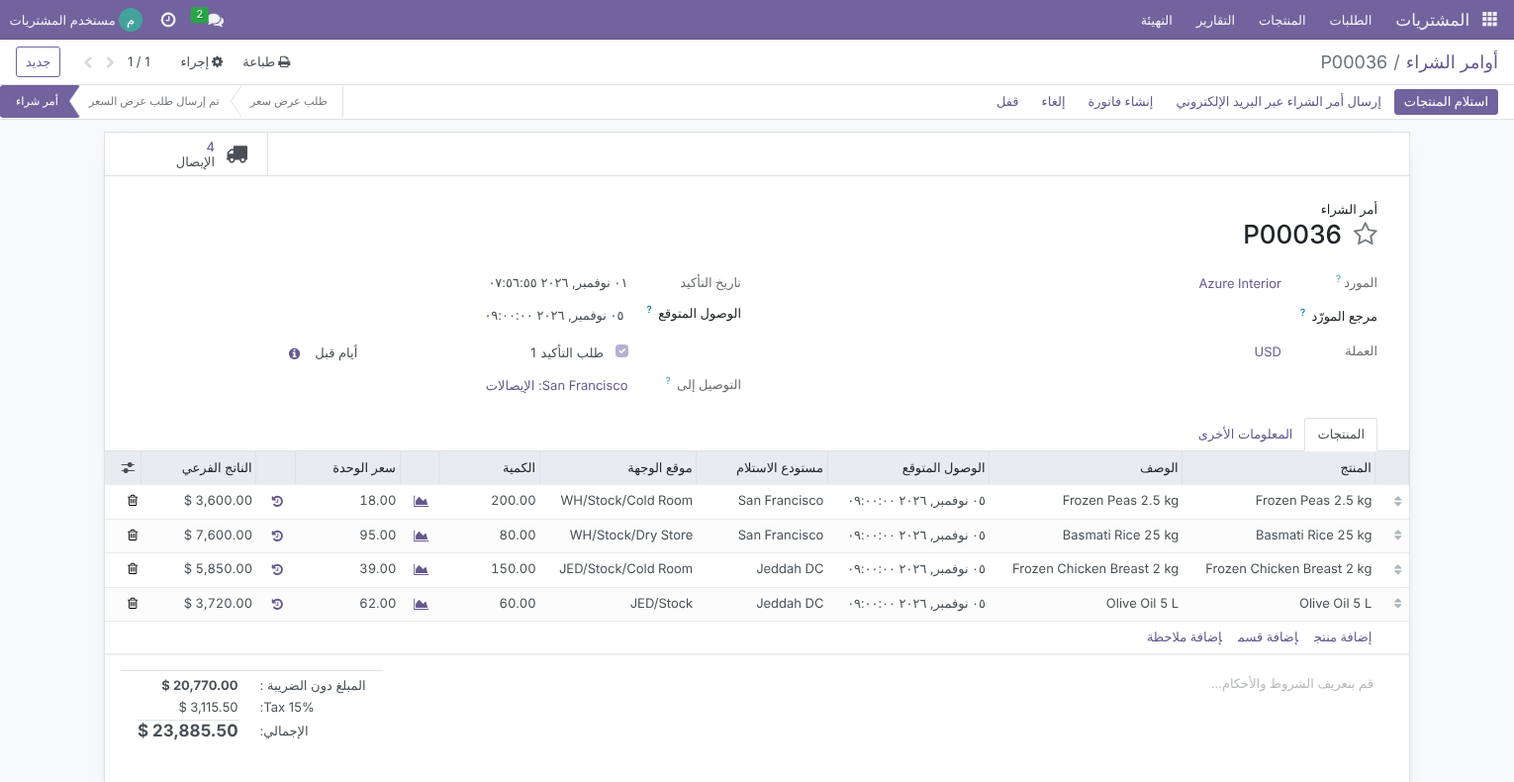
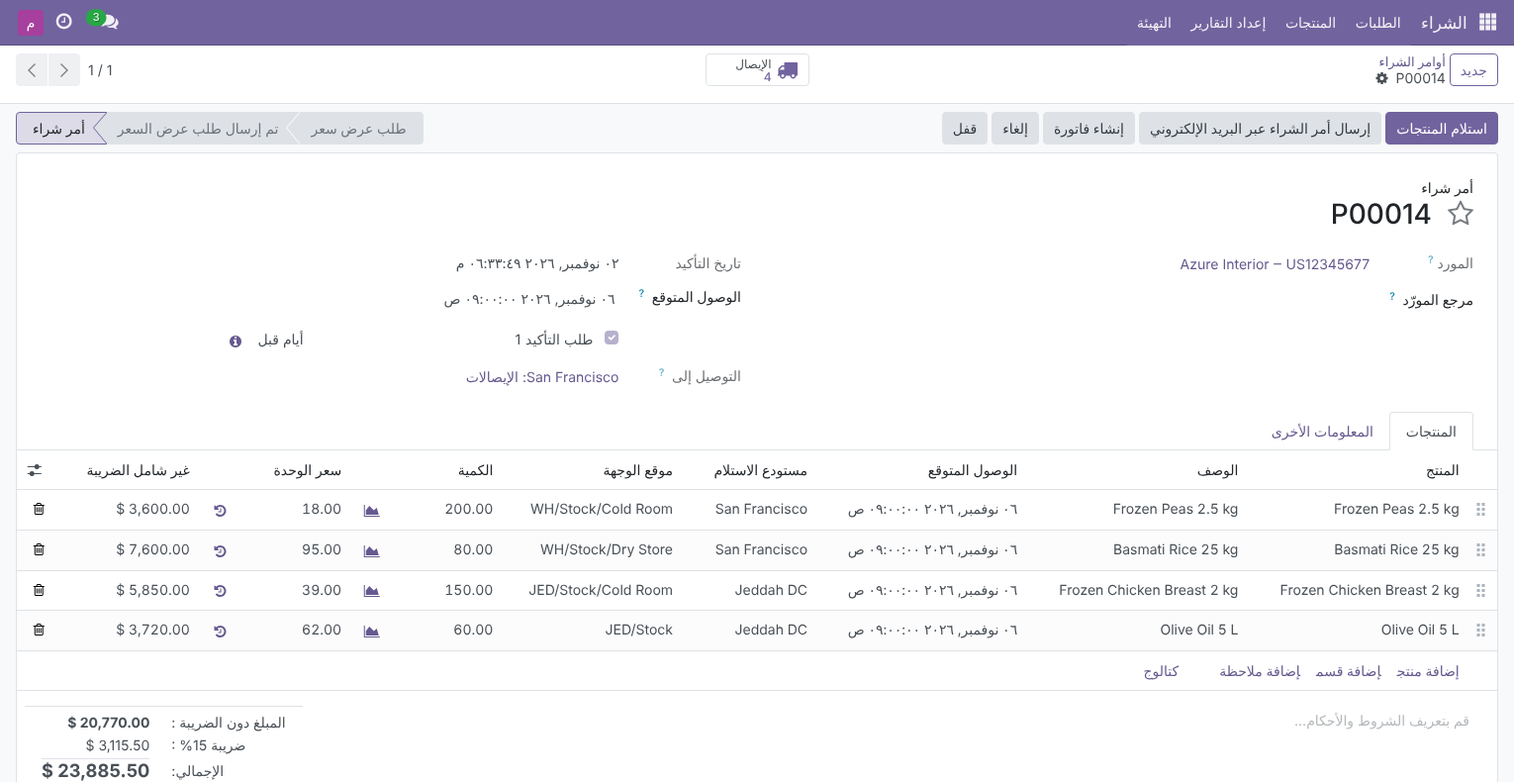
Add files via upload

diff --git a/purchase_split_grn/static/description/index.html b/purchase_split_grn/static/description/index.html
@@ -1,4 +1,4 @@
-<!-- Odoo Apps description page for purchase_split_grn (Odoo 16.0). Inline styles only: apps.odoo.com strips <style> and <script> blocks. -->
+<!-- Odoo Apps description page for purchase_split_grn (Odoo 17.0). Inline styles only: apps.odoo.com strips <style> and <script> blocks. -->
 <section style="max-width:1120px;margin:0 auto;padding:0 16px;font-family:-apple-system,BlinkMacSystemFont,'Segoe UI',Roboto,'Helvetica Neue',Arial,sans-serif;color:#2b2b33;">
 
 <!-- ============================== HERO ============================== -->
@@ -7,9 +7,9 @@
   <h1 style="font-size:40px;line-height:1.15;font-weight:700;margin:0 0 14px;color:#ffffff;">Split Receipts (GRN) by Date, Location &amp; Warehouse</h1>
   <p style="font-size:19px;line-height:1.55;max-width:760px;margin:0 0 24px;color:#ffffff;opacity:.95;">Confirm one purchase order and get one receipt per expected arrival day, per destination location and per warehouse of your company. When a line&rsquo;s date, location or warehouse changes later, its stock moves follow it and receipts left empty are removed.</p>
   <div>
-    <span style="display:inline-block;border:1px solid rgba(255,255,255,.7);border-radius:20px;padding:6px 14px;margin:0 8px 8px 0;font-size:14px;">Odoo 16.0</span>
+    <span style="display:inline-block;border:1px solid rgba(255,255,255,.7);border-radius:20px;padding:6px 14px;margin:0 8px 8px 0;font-size:14px;">Odoo 17.0</span>
     <span style="display:inline-block;border:1px solid rgba(255,255,255,.7);border-radius:20px;padding:6px 14px;margin:0 8px 8px 0;font-size:14px;">Community &amp; Enterprise</span>
-    <span style="display:inline-block;border:1px solid rgba(255,255,255,.7);border-radius:20px;padding:6px 14px;margin:0 8px 8px 0;font-size:14px;">38 automated tests</span>
+    <span style="display:inline-block;border:1px solid rgba(255,255,255,.7);border-radius:20px;padding:6px 14px;margin:0 8px 8px 0;font-size:14px;">40 automated tests</span>
     <span style="display:inline-block;border:1px solid rgba(255,255,255,.7);border-radius:20px;padding:6px 14px;margin:0 8px 8px 0;font-size:14px;">Arabic &middot; RTL</span>
     <span style="display:inline-block;border:1px solid rgba(255,255,255,.7);border-radius:20px;padding:6px 14px;margin:0 8px 8px 0;font-size:14px;">Technical name: purchase_split_grn</span>
     <span style="display:inline-block;border:1px solid rgba(255,255,255,.7);border-radius:20px;padding:6px 14px;margin:0 8px 8px 0;font-size:14px;">LGPL-3</span>
@@ -21,7 +21,7 @@
   <div style="flex:1 1 220px;margin:8px;background:#f6f4f6;border-radius:14px;padding:20px 22px;"><div style="font-size:30px;font-weight:700;color:#714B67;">3 criteria</div><div style="font-size:15px;color:#555;">Delivery date, destination location and warehouse, alone or combined</div></div>
   <div style="flex:1 1 220px;margin:8px;background:#eef6f6;border-radius:14px;padding:20px 22px;"><div style="font-size:30px;font-weight:700;color:#017E84;">1 receipt</div><div style="font-size:15px;color:#555;">per arrival day &times; location &times; warehouse, created at confirmation</div></div>
   <div style="flex:1 1 220px;margin:8px;background:#f6f4f6;border-radius:14px;padding:20px 22px;"><div style="font-size:30px;font-weight:700;color:#714B67;">0 empty receipts</div><div style="font-size:15px;color:#555;">Moves are re-routed on change and emptied receipts deleted</div></div>
-  <div style="flex:1 1 220px;margin:8px;background:#eef6f6;border-radius:14px;padding:20px 22px;"><div style="font-size:30px;font-weight:700;color:#017E84;">112 tests</div><div style="font-size:15px;color:#555;">38 of its own plus the 74 core <code>purchase_stock</code> tests, green with splitting on</div></div>
+  <div style="flex:1 1 220px;margin:8px;background:#eef6f6;border-radius:14px;padding:20px 22px;"><div style="font-size:30px;font-weight:700;color:#017E84;">227 tests</div><div style="font-size:15px;color:#555;">40 of its own plus the 187 core <code>purchase_stock</code> tests, green with splitting on</div></div>
 </div>
 
 <!-- ============================== WHY ============================== -->
@@ -29,7 +29,7 @@
 <p style="font-size:16px;color:#555;margin:0 0 18px;">Vendors rarely deliver a whole order at once, and different goods go to different parts of the warehouse &ndash; or to different warehouses. Standard Odoo still puts every line into one receipt.</p>
 <div style="display:flex;flex-wrap:wrap;margin:0 -10px;">
   <div style="flex:1 1 440px;margin:10px;border:1px solid #f1d6d6;background:#fff8f8;border-radius:14px;padding:24px 26px;">
-    <h3 style="font-size:19px;font-weight:700;color:#b33939;margin:0 0 12px;">In standard Odoo 16</h3>
+    <h3 style="font-size:19px;font-weight:700;color:#b33939;margin:0 0 12px;">In standard Odoo 17</h3>
     <ul style="font-size:15px;line-height:1.65;margin:0;padding-left:20px;color:#3a3a42;">
       <li>A confirmed PO creates <b>one receipt</b>, whatever the expected arrival dates of its lines.</li>
       <li>The receipt&rsquo;s <b>scheduled date</b> is the earliest line date, so later deliveries look late or early.</li>
@@ -66,7 +66,7 @@
 
 <!-- ============================== FEATURES ============================== -->
 <h2 style="font-size:28px;font-weight:700;margin:40px 0 6px;color:#2b2b33;">Features</h2>
-<p style="font-size:16px;color:#555;margin:0 0 4px;">Screenshots use Odoo 16 demo data from <b>Azure Interior</b>: P00034 with six lines due on three different days into <b>Cold Room</b>, <b>Bulk Racks</b> and <b>Dry Store</b> of the <b>San Francisco</b> warehouse, and P00036 split between San Francisco and a second warehouse, <b>Jeddah DC</b>.</p>
+<p style="font-size:16px;color:#555;margin:0 0 4px;">Screenshots use Odoo 17 demo data from <b>Azure Interior</b>: P00012 with six lines due on three different days into <b>Cold Room</b>, <b>Bulk Racks</b> and <b>Dry Store</b> of the <b>San Francisco</b> warehouse, and P00014 split between San Francisco and a second warehouse, <b>Jeddah DC</b>.</p>
 
 <div style="margin:44px 0 0;">
   <div style="font-size:13px;font-weight:700;color:#017E84;letter-spacing:1px;text-transform:uppercase;">Settings</div>
@@ -85,9 +85,9 @@
 <div style="margin:44px 0 0;">
   <div style="font-size:13px;font-weight:700;color:#017E84;letter-spacing:1px;text-transform:uppercase;">Feature 2</div>
   <h3 style="font-size:23px;font-weight:700;margin:4px 0 8px;">One receipt per arrival day and destination</h3>
-  <p style="font-size:15px;line-height:1.6;color:#555;margin:0 0 14px;">Lines sharing both the same day and the same destination share a receipt. Frozen Peas and Chilled Yoghurt (Cold Room, 3 Nov) are received together; Steel Pallet Rack Beam (Bulk Racks, same day) gets its own receipt; Frozen Chicken (Cold Room, 10 Nov) another. The optional <b>Grouped Arrival Date</b> column shows each receipt&rsquo;s key.</p>
+  <p style="font-size:15px;line-height:1.6;color:#555;margin:0 0 14px;">Lines sharing both the same day and the same destination share a receipt. Frozen Peas and Chilled Yoghurt (Cold Room, 4 Nov) are received together; Steel Pallet Rack Beam (Bulk Racks, same day) gets its own receipt; Frozen Chicken (Cold Room, 11 Nov) another. The optional <b>Grouped Arrival Date</b> column shows each receipt&rsquo;s key.</p>
   <img src="psg_03_receipts_list.png" alt="Four receipts of one purchase order, each with its own destination and grouped arrival date" style="width:100%;margin-bottom:22px;border:1px solid #e1e1e6;border-radius:10px;box-shadow:0 6px 24px rgba(30,30,60,.10);"/>
-  <img src="psg_04_receipt_form.png" alt="Receipt WH/IN/00051 into Cold Room with Grouped Arrival Date and two products" style="width:100%;border:1px solid #e1e1e6;border-radius:10px;box-shadow:0 6px 24px rgba(30,30,60,.10);"/>
+  <img src="psg_04_receipt_form.png" alt="Receipt WH/IN/00008 into Cold Room with Grouped Arrival Date and two products" style="width:100%;border:1px solid #e1e1e6;border-radius:10px;box-shadow:0 6px 24px rgba(30,30,60,.10);"/>
   <div style="font-size:13px;color:#777;margin:6px 0 0;">The receipt&rsquo;s destination, scheduled date and deadline all match its lines; it is <b>Ready</b> to validate.</div>
   <div style="background:#f4fbfb;border-left:4px solid #017E84;border-radius:8px;padding:16px 20px;font-size:15px;line-height:1.6;margin-top:14px;"><b>Grouping rule:</b> lines are grouped by <b>calendar day</b> in the buyer&rsquo;s timezone (the PO&rsquo;s purchase representative, otherwise the current user). Example in Asia/Riyadh: 09:00 and 23:00 on 3 Nov are one receipt; 23:30 UTC on 3 Nov is already 4 Nov locally and goes with 4 Nov.</div>
 </div>
@@ -95,20 +95,20 @@
 <div style="margin:44px 0 0;">
   <div style="font-size:13px;font-weight:700;color:#017E84;letter-spacing:1px;text-transform:uppercase;">Feature 3</div>
   <h3 style="font-size:23px;font-weight:700;margin:4px 0 8px;">Receipts follow changes made after confirmation</h3>
-  <p style="font-size:15px;line-height:1.6;color:#555;margin:0 0 14px;">On P00035, Basmati Rice is due 4 Nov and Olive Oil 7 Nov: <b>2 receipts</b>. The vendor confirms both for 4 Nov; the buyer updates the Olive Oil date.</p>
-  <img src="psg_05_change_before.png" alt="Purchase order P00035 with two lines on different dates and 2 receipts" style="width:100%;margin-bottom:22px;border:1px solid #e1e1e6;border-radius:10px;box-shadow:0 6px 24px rgba(30,30,60,.10);"/>
+  <p style="font-size:15px;line-height:1.6;color:#555;margin:0 0 14px;">On P00013, Basmati Rice is due 5 Nov and Olive Oil 8 Nov: <b>2 receipts</b>. The vendor confirms both for 5 Nov; the buyer updates the Olive Oil date.</p>
+  <img src="psg_05_change_before.png" alt="Purchase order P00013 with two lines on different dates and 2 receipts" style="width:100%;margin-bottom:22px;border:1px solid #e1e1e6;border-radius:10px;box-shadow:0 6px 24px rgba(30,30,60,.10);"/>
   <img src="psg_06_change_after.png" alt="Same purchase order after the date change, now with 1 receipt" style="width:100%;border:1px solid #e1e1e6;border-radius:10px;box-shadow:0 6px 24px rgba(30,30,60,.10);"/>
-  <div style="font-size:13px;color:#777;margin:6px 0 22px;">The Olive Oil move moved into the 4 Nov receipt; its old receipt was left empty and deleted. The smart button now shows <b>1 Receipt</b>.</div>
-  <img src="psg_07_merged_receipt.png" alt="Receipt WH/IN/00054 holding both Basmati Rice and Olive Oil" style="width:100%;border:1px solid #e1e1e6;border-radius:10px;box-shadow:0 6px 24px rgba(30,30,60,.10);"/>
+  <div style="font-size:13px;color:#777;margin:6px 0 22px;">The Olive Oil move moved into the 5 Nov receipt; its old receipt was left empty and deleted. The smart button now shows <b>1 Receipt</b>.</div>
+  <img src="psg_07_merged_receipt.png" alt="Receipt WH/IN/00011 holding both Basmati Rice and Olive Oil" style="width:100%;border:1px solid #e1e1e6;border-radius:10px;box-shadow:0 6px 24px rgba(30,30,60,.10);"/>
   <div style="background:#f4fbfb;border-left:4px solid #017E84;border-radius:8px;padding:16px 20px;font-size:15px;line-height:1.6;margin-top:14px;"><b>What happens on a change:</b> the line&rsquo;s open, unprocessed moves go to the receipt matching its new day and destination. If none exists and the old receipt held only those moves, that receipt is <b>re-dated / re-located in place</b> and keeps its reference. Otherwise a new receipt is created. Any receipt left without moves is deleted. The same applies to new lines and quantity changes on confirmed orders.</div>
 </div>
 
 <div style="margin:44px 0 0;">
   <div style="font-size:13px;font-weight:700;color:#017E84;letter-spacing:1px;text-transform:uppercase;">Feature 4</div>
   <h3 style="font-size:23px;font-weight:700;margin:4px 0 8px;">Receive one order in several warehouses</h3>
-  <p style="font-size:15px;line-height:1.6;color:#555;margin:0 0 14px;">With <b>Split by Warehouse</b> on, PO lines get a <b>Receiving Warehouse</b> column. It defaults to the warehouse of the order&rsquo;s <b>Deliver To</b>. Choose another warehouse of the same company and the line&rsquo;s <b>Destination Location</b> switches to that warehouse&rsquo;s receipt location; the location list is limited to that warehouse (plus transit locations). P00036 is one order for San Francisco and Jeddah DC.</p>
-  <img src="psg_10_po_warehouses.png" alt="Purchase order P00036 with lines received in San Francisco and in Jeddah DC" style="width:100%;margin-bottom:22px;border:1px solid #e1e1e6;border-radius:10px;box-shadow:0 6px 24px rgba(30,30,60,.10);"/>
-  <img src="psg_11_receipts_warehouses.png" alt="Four receipts of P00036: two WH/IN receipts and two JED/IN receipts" style="width:100%;border:1px solid #e1e1e6;border-radius:10px;box-shadow:0 6px 24px rgba(30,30,60,.10);"/>
+  <p style="font-size:15px;line-height:1.6;color:#555;margin:0 0 14px;">With <b>Split by Warehouse</b> on, PO lines get a <b>Receiving Warehouse</b> column. It defaults to the warehouse of the order&rsquo;s <b>Deliver To</b>. Choose another warehouse of the same company and the line&rsquo;s <b>Destination Location</b> switches to that warehouse&rsquo;s receipt location; the location list is limited to that warehouse (plus transit locations). P00014 is one order for San Francisco and Jeddah DC.</p>
+  <img src="psg_10_po_warehouses.png" alt="Purchase order P00014 with lines received in San Francisco and in Jeddah DC" style="width:100%;margin-bottom:22px;border:1px solid #e1e1e6;border-radius:10px;box-shadow:0 6px 24px rgba(30,30,60,.10);"/>
+  <img src="psg_11_receipts_warehouses.png" alt="Four receipts of P00014: two WH/IN receipts and two JED/IN receipts" style="width:100%;border:1px solid #e1e1e6;border-radius:10px;box-shadow:0 6px 24px rgba(30,30,60,.10);"/>
   <div style="font-size:13px;color:#777;margin:6px 0 0;">Jeddah lines are received on <b>JED/IN</b> receipts, numbered by Jeddah&rsquo;s own sequence; San Francisco lines on <b>WH/IN</b>. Combined here with location splitting, so each warehouse also gets one receipt per destination.</div>
   <div style="background:#f4fbfb;border-left:4px solid #017E84;border-radius:8px;padding:16px 20px;font-size:15px;line-height:1.6;margin-top:14px;"><b>How it is done:</b> each receipt for another warehouse is created with <b>that warehouse&rsquo;s receipt operation type</b>, and its moves carry that warehouse and operation. So the receipt is numbered by that warehouse&rsquo;s sequence, appears on its Inventory overview, and follows its own reception steps and push rules (e.g. Input &rsaquo; Stock in two-step reception). Lines for the order&rsquo;s own warehouse keep the order&rsquo;s operation type. Only warehouses of the order&rsquo;s company can be chosen.</div>
 </div>
@@ -118,14 +118,14 @@
   <h3 style="font-size:23px;font-weight:700;margin:4px 0 8px;">Arabic translation and right-to-left layout</h3>
   <p style="font-size:15px;line-height:1.6;color:#555;margin:0 0 14px;">Every label, help text and error message ships in Arabic (<b>ar_001</b>). Views use Odoo&rsquo;s direction-aware layout, so the settings and order lines mirror correctly.</p>
   <img src="psg_08_settings_ar.png" alt="Inbound Logistics settings in Arabic, right-to-left" style="width:100%;max-width:1000px;margin-bottom:22px;border:1px solid #e1e1e6;border-radius:10px;box-shadow:0 6px 24px rgba(30,30,60,.10);"/>
-  <img src="psg_09_po_lines_ar.png" alt="Purchase order P00036 with Receiving Warehouse and Destination Location columns in Arabic, right-to-left" style="width:100%;border:1px solid #e1e1e6;border-radius:10px;box-shadow:0 6px 24px rgba(30,30,60,.10);"/>
+  <img src="psg_09_po_lines_ar.png" alt="Purchase order P00014 with Receiving Warehouse and Destination Location columns in Arabic, right-to-left" style="width:100%;border:1px solid #e1e1e6;border-radius:10px;box-shadow:0 6px 24px rgba(30,30,60,.10);"/>
 </div>
 
 <!-- ============================== CORNER CASES ============================== -->
 <h2 style="font-size:28px;font-weight:700;margin:44px 0 6px;color:#2b2b33;">Built for real-world corner cases</h2>
 <p style="font-size:16px;color:#555;margin:0 0 18px;">Behaviour you can rely on in daily use, most of it pinned down by the test suite.</p>
 <div style="display:flex;flex-wrap:wrap;margin:0 -8px;font-size:15px;line-height:1.55;">
-  <div style="flex:1 1 320px;margin:8px;padding:16px 18px;border:1px solid #e8e8ee;border-radius:12px;"><b>Partly processed moves</b><br/><span style="color:#555;">Moves where a done quantity was already entered are never moved; the storekeeper&rsquo;s work stays where it is.</span></div>
+  <div style="flex:1 1 320px;margin:8px;padding:16px 18px;border:1px solid #e8e8ee;border-radius:12px;"><b>Receipts already being counted</b><br/><span style="color:#555;">Moves marked <b>Picked</b>, or whose <b>Quantity</b> was changed from the demand, are never moved, so the storekeeper&rsquo;s count stays where it is.</span></div>
   <div style="flex:1 1 320px;margin:8px;padding:16px 18px;border:1px solid #e8e8ee;border-radius:12px;"><b>Multi-step reception</b><br/><span style="color:#555;">Lines default to the warehouse&rsquo;s Input, in the order&rsquo;s warehouse or another one. If a receipt is already chained to the Input &rsaquo; Stock transfer, changing its destination from the PO is blocked with a clear message.</span></div>
   <div style="flex:1 1 320px;margin:8px;padding:16px 18px;border:1px solid #e8e8ee;border-radius:12px;"><b>Reordering rules</b><br/><span style="color:#555;">Lines from replenishment keep the order&rsquo;s destination; their moves still reach the rule&rsquo;s sub-location exactly as in standard Odoo.</span></div>
   <div style="flex:1 1 320px;margin:8px;padding:16px 18px;border:1px solid #e8e8ee;border-radius:12px;"><b>Location in the wrong warehouse</b><br/><span style="color:#555;">A line location that does not belong to the line&rsquo;s <b>Receiving Warehouse</b> is rejected with a clear message.</span></div>
@@ -157,13 +157,13 @@
 <h2 style="font-size:28px;font-weight:700;margin:44px 0 6px;color:#2b2b33;">Technical details</h2>
 <table style="width:100%;border-collapse:collapse;font-size:15px;">
   <tbody>
-    <tr style="border-bottom:1px solid #eee;"><td style="padding:10px 14px;width:240px;color:#777;">Odoo version</td><td style="padding:10px 14px;">16.0, Community and Enterprise</td></tr>
+    <tr style="border-bottom:1px solid #eee;"><td style="padding:10px 14px;width:240px;color:#777;">Odoo version</td><td style="padding:10px 14px;">17.0, Community and Enterprise</td></tr>
     <tr style="border-bottom:1px solid #eee;background:#fafafa;"><td style="padding:10px 14px;width:240px;color:#777;">Depends on</td><td style="padding:10px 14px;"><code>purchase_stock</code></td></tr>
     <tr style="border-bottom:1px solid #eee;"><td style="padding:10px 14px;width:240px;color:#777;">Python dependency</td><td style="padding:10px 14px;">None</td></tr>
     <tr style="border-bottom:1px solid #eee;background:#fafafa;"><td style="padding:10px 14px;width:240px;color:#777;">Menus</td><td style="padding:10px 14px;">No new menus; works on Purchase &rsaquo; Orders and their receipts</td></tr>
     <tr style="border-bottom:1px solid #eee;"><td style="padding:10px 14px;width:240px;color:#777;">Settings</td><td style="padding:10px 14px;">Purchase &rsaquo; Configuration &rsaquo; Settings &rsaquo; Inbound Logistics</td></tr>
     <tr style="border-bottom:1px solid #eee;background:#fafafa;"><td style="padding:10px 14px;width:240px;color:#777;">Models</td><td style="padding:10px 14px;">Extends <code>res.company</code>, <code>res.config.settings</code>, <code>purchase.order</code>, <code>purchase.order.line</code> (new <code>warehouse_id</code>, <code>location_dest_id</code>), <code>stock.picking</code> (new <code>split_grn_date</code>)</td></tr>
-    <tr style="border-bottom:1px solid #eee;"><td style="padding:10px 14px;width:240px;color:#777;">Automated tests</td><td style="padding:10px 14px;">38 tests: settings, each criterion alone and combined, timezone grouping, receiving one split receipt, post-confirmation date/location/warehouse changes, re-keying and cleanup, new lines, quantity changes, processed moves, multi-step reception (own and other warehouse), receiving into another warehouse, reordering rules, cancellation. The 74 core <code>purchase_stock</code> tests also pass with all three criteria enabled.</td></tr>
+    <tr style="border-bottom:1px solid #eee;"><td style="padding:10px 14px;width:240px;color:#777;">Automated tests</td><td style="padding:10px 14px;">40 tests: settings, each criterion alone and combined, timezone grouping, receiving one split receipt, post-confirmation date/location/warehouse changes, re-keying and cleanup, new lines, quantity changes, processed moves, multi-step reception (own and other warehouse), receiving into another warehouse, reordering rules, cancellation, origin notes on every receipt, counted-but-not-picked moves. The 187 core <code>purchase_stock</code> tests also pass with all three criteria enabled, and with the feature off.</td></tr>
     <tr style="border-bottom:1px solid #eee;background:#fafafa;"><td style="padding:10px 14px;width:240px;color:#777;">Languages</td><td style="padding:10px 14px;">English, Arabic (<code>ar_001</code>)</td></tr>
     <tr style="border-bottom:1px solid #eee;"><td style="padding:10px 14px;width:240px;color:#777;">License</td><td style="padding:10px 14px;">LGPL-3</td></tr>
   </tbody>

diff --git a/purchase_split_grn/tests/test_split_grn.py b/purchase_split_grn/tests/test_split_grn.py
@@ -66,6 +66,11 @@ class TestPurchaseSplitGrn(TransactionCase):
             po.button_confirm()
         return po
 
+    def _receive(self, picking, qty):
+        """v17: done quantities live in ``quantity`` + ``picked``."""
+        picking.move_ids.write({'quantity': qty, 'picked': True})
+        picking.button_validate()
+
     def _picking_of(self, line):
         pickings = line.move_ids.filtered(lambda m: m.state != 'cancel').picking_id
         self.assertEqual(len(pickings), 1, 'line %s should sit in exactly one receipt' % line.name)
@@ -200,8 +205,7 @@ class TestPurchaseSplitGrn(TransactionCase):
             {'product': self.p2, 'date': self.d2, 'location': self.shelf_b},
         ])
         first = self._picking_of(po.order_line[0])
-        first.move_ids.quantity_done = 10.0
-        first.button_validate()
+        self._receive(first, 10.0)
         self.assertEqual(first.state, 'done')
         self.assertEqual(po.order_line[0].qty_received, 10.0)
         self.assertEqual(po.order_line[1].qty_received, 0.0)
@@ -298,10 +302,11 @@ class TestPurchaseSplitGrn(TransactionCase):
         po = self._po([{'product': self.p1, 'date': self.d1}, {'product': self.p2, 'date': self.d2}])
         l2 = po.order_line[1]
         picking = self._picking_of(l2)
-        l2.move_ids.move_line_ids.qty_done = 4.0
+        l2.move_ids.move_line_ids.write({'quantity': 4.0, 'picked': True})
         l2.date_planned = self.d1
         self.assertEqual(self._picking_of(l2), picking)
-        self.assertEqual(l2.move_ids.move_line_ids.qty_done, 4.0)
+        self.assertEqual(l2.move_ids.move_line_ids.quantity, 4.0)
+        self.assertTrue(l2.move_ids.picked)
 
     def test_26_new_line_after_confirmation(self):
         self._configure(by_date=True, by_location=True)
@@ -353,8 +358,7 @@ class TestPurchaseSplitGrn(TransactionCase):
         self._configure(by_date=True)
         po = self._po([{'product': self.p1, 'date': self.d1}])
         picking = po.picking_ids
-        picking.move_ids.quantity_done = 10
-        picking.button_validate()
+        self._receive(picking, 10)
         with self.assertRaises(UserError):
             po.order_line.product_qty = 5
 
@@ -512,8 +516,7 @@ class TestPurchaseSplitGrn(TransactionCase):
         self._configure(by_warehouse=True)
         po = self._po_wh([{'product': self.p1}, {'product': self.p2, 'warehouse': self.other_wh}])
         other = self._picking_of(po.order_line[1])
-        other.move_ids.quantity_done = 10
-        other.button_validate()
+        self._receive(other, 10)
         self.assertEqual(other.state, 'done')
         self.assertEqual(po.order_line[1].qty_received, 10)
         self.assertEqual(po.order_line[0].qty_received, 0)
@@ -586,3 +589,33 @@ class TestPurchaseSplitGrn(TransactionCase):
         self.assertEqual(po.order_line.location_dest_id, self.other_wh.lot_stock_id)
         po.button_confirm()
         self.assertEqual(po.picking_ids.picking_type_id, self.other_wh.in_type_id)
+
+    def test_51_split_receipts_link_back_to_order(self):
+        """Every receipt created by the split engine gets the standard
+        'created from <PO>' note (v17: message_post_with_source)."""
+        self._configure(by_date=True, by_warehouse=True)
+        po = self._po_wh([{'product': self.p1, 'date': self.d1},
+                          {'product': self.p2, 'date': self.d2},
+                          {'product': self.p3, 'date': self.d1, 'warehouse': self.other_wh}])
+        self.assertEqual(len(po.picking_ids), 3)
+        for picking in po.picking_ids:
+            notes = picking.message_ids.filtered(
+                lambda m: m.subtype_id == self.env.ref('mail.mt_note') and po.name in (m.body or ''))
+            self.assertTrue(notes, 'receipt %s has no origin note' % picking.name)
+        # a receipt created later by a date change gets one too
+        po.order_line[0].date_planned = self.d3
+        new = self._picking_of(po.order_line[0])
+        self.assertTrue(new.message_ids.filtered(lambda m: po.name in (m.body or '')))
+
+    def test_52_edited_quantity_without_picked_is_not_moved(self):
+        """v17: a counted quantity typed on the receipt without ticking
+        'picked' still protects the move from being re-routed."""
+        self._configure(by_date=True)
+        po = self._po([{'product': self.p1, 'date': self.d1}, {'product': self.p2, 'date': self.d2}])
+        l2 = po.order_line[1]
+        picking = self._picking_of(l2)
+        l2.move_ids.quantity = 7.0
+        self.assertFalse(l2.move_ids.picked)
+        l2.date_planned = self.d1
+        self.assertEqual(self._picking_of(l2), picking)
+        self.assertEqual(l2.move_ids.quantity, 7.0)

diff --git a/purchase_split_grn/models/purchase_order_line.py b/purchase_split_grn/models/purchase_order_line.py
@@ -209,14 +209,32 @@ class PurchaseOrderLine(models.Model):
         return result
 
     def _split_grn_movable_moves(self):
-        """Open incoming moves of the line that are not yet being processed."""
+        """Open incoming moves of the line that nobody has started processing.
+
+        In v17 an incoming move's ``quantity`` is pre-filled with its demand
+        when it is assigned, so a move counts as being processed when it (or
+        one of its move lines) is marked *picked*, or when its quantity was
+        edited away from the demand. Such moves are never moved: rerouting
+        unreserves the move and would reset the counted quantity."""
         self.ensure_one()
+
+        def untouched(move):
+            if move.picked or any(move.move_line_ids.mapped('picked')):
+                return False
+            # supplier moves are fully available once assigned; a quantity
+            # differing from the demand means somebody typed a count
+            if move.state in ('assigned', 'partially_available') and float_compare(
+                    move.quantity, move.product_uom_qty,
+                    precision_rounding=move.product_uom.rounding) != 0:
+                return False
+            return True
+
         return self.move_ids.filtered(
             lambda m: m.state not in ('done', 'cancel')
             and m.picking_id
             and m.location_id.usage == 'supplier'
             and m.location_dest_id.usage != 'supplier'
-            and not any(ml.qty_done for ml in m.move_line_ids))
+            and untouched(m))
 
     def _split_grn_reroute_moves(self):
         """Move the open stock moves of lines whose split key changed into the

diff --git a/purchase_split_grn/models/purchase_order.py b/purchase_split_grn/models/purchase_order.py
@@ -120,10 +120,11 @@ class PurchaseOrder(models.Model):
     def _split_grn_post_origin(self, pickings):
         self.ensure_one()
         for picking in pickings:
-            picking.message_post_with_view(
+            picking.message_post_with_source(
                 'mail.message_origin_link',
-                values={'self': picking, 'origin': self},
-                subtype_id=self.env.ref('mail.mt_note').id)
+                render_values={'self': picking, 'origin': self},
+                subtype_xmlid='mail.mt_note',
+            )
 
     @api.model
     def _split_grn_cleanup_pickings(self, pickings):

diff --git a/purchase_split_grn/__manifest__.py b/purchase_split_grn/__manifest__.py
@@ -1,7 +1,7 @@
 # -*- coding: utf-8 -*-
 {
     'name': 'Purchase Split Receipts (GRN) by Date, Location & Warehouse',
-    'version': '16.0.1.1.0',
+    'version': '17.0.1.1.0',
     'category': 'Inventory/Purchase',
     'summary': 'Automatically split purchase receipts by expected arrival date, '
                'destination location and/or warehouse per purchase order line',
